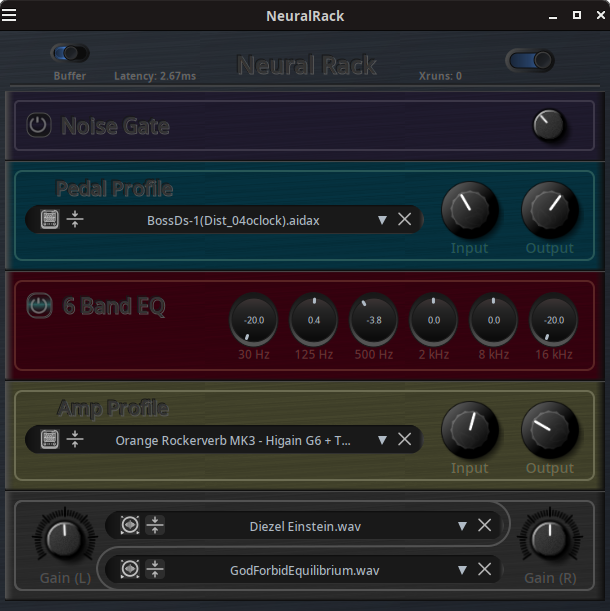
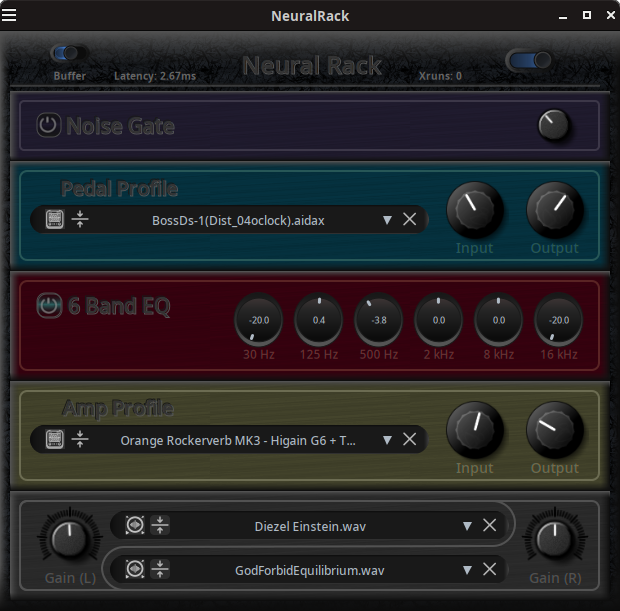
Graphic reworked

diff --git a/NeuralRack/gui/NeuralRack.c b/NeuralRack/gui/NeuralRack.c
@@ -132,7 +132,7 @@ static void file_menu_callback(void *w_, void* user_data) {
 }
 
 void plugin_set_window_size(int *w,int *h,const char * plugin_uri) {
-    (*w) = 610; //set initial width of main window
+    (*w) = 620; //set initial width of main window
     (*h) = 580; //set initial height of main window
 }
 
@@ -143,7 +143,7 @@ const char* plugin_set_name() {
 void plugin_create_controller_widgets(X11_UI *ui, const char * plugin_uri) {
 
     ui->win->label = plugin_set_name();
-    widget_get_png(ui->win, LDVAR(texture_png));
+    widget_get_png(ui->win, LDVAR(texture2_png));
     // connect the expose func
     ui->win->func.expose_callback = draw_window;
     ui->win->func.key_press_callback = set_precision;
@@ -186,7 +186,7 @@ void plugin_create_controller_widgets(X11_UI *ui, const char * plugin_uri) {
     ui->widget[10] = add_lv2_switch (ui->widget[10], ui->win, 14, "", ui, 505,  17, 50, 50);
 
 // noisegate
-    ui->elem[4] = create_widget(&ui->main, ui->win, 5, 60, 600, 70);
+    ui->elem[4] = create_widget(&ui->main, ui->win, 10, 60, 600, 70);
     ui->elem[4]->parent_struct = ui;
     ui->elem[4]->label = "Noise Gate";
     ui->elem[4]->data = 1;
@@ -195,7 +195,7 @@ void plugin_create_controller_widgets(X11_UI *ui, const char * plugin_uri) {
     set_widget_color(ui->elem[4], (Color_state)0, (Color_mod)0, 0.235, 0.215, 0.282,1.0);
     ui->elem[4]->func.expose_callback = draw_eq_window;
 
-    ui->widget[26] = add_eq_button (ui->widget[26], ui->elem[4], 32, "", ui, 20,  20, 30, 30);
+    ui->widget[26] = add_eq_button (ui->widget[26], ui->elem[4], 32, "", ui, 25,  20, 30, 30);
     widget_get_png(ui->widget[26], LDVAR(exit__png));
 
     ui->widget[25] = add_lv2_knob (ui->widget[25], ui->elem[4], 31, "", ui, 510, 5, 70, 70); //Threshold
@@ -206,7 +206,7 @@ void plugin_create_controller_widgets(X11_UI *ui, const char * plugin_uri) {
     set_widget_color(ui->widget[25], (Color_state)1, (Color_mod)0, 0.335, 0.315, 0.382,1.0);
 
 // slot A
-    ui->elem[0] = create_widget(&ui->main, ui->win, 5, 130, 600, 110);
+    ui->elem[0] = create_widget(&ui->main, ui->win, 10, 130, 600, 110);
     ui->elem[0]->parent_struct = ui;
     ui->elem[0]->label = "Pedal Profile";
     ui->elem[0]->data = 1;
@@ -245,7 +245,7 @@ void plugin_create_controller_widgets(X11_UI *ui, const char * plugin_uri) {
     ui->widget[11] = add_lv2_erase_button (ui->widget[11], ui->elem[0], 15, "", ui, 390, 48, 25, 25);
 
 // EQ
-    ui->elem[3] = create_widget(&ui->main, ui->win, 5, 240, 600, 110);
+    ui->elem[3] = create_widget(&ui->main, ui->win, 10, 240, 600, 110);
     ui->elem[3]->parent_struct = ui;
     ui->elem[3]->label = "6 Band EQ";
     set_widget_color(ui->elem[3], (Color_state)0, (Color_mod)1, 0.223, 0.004, 0.059,1.0);
@@ -253,7 +253,7 @@ void plugin_create_controller_widgets(X11_UI *ui, const char * plugin_uri) {
     widget_get_png(ui->elem[3], LDVAR(texture_png));
     ui->elem[3]->func.expose_callback = draw_eq_window;
 
-    ui->widget[24] = add_eq_button (ui->widget[24], ui->elem[3], 30, "", ui, 20,  20, 30, 30);
+    ui->widget[24] = add_eq_button (ui->widget[24], ui->elem[3], 30, "", ui, 25,  20, 30, 30);
     widget_get_png(ui->widget[24], LDVAR(exit__png));
 
     ui->widget[18] = add_eq_knob (ui->widget[18], ui->elem[3], 24, "30 Hz", ui, 220, 10, 60, 80);
@@ -275,7 +275,7 @@ void plugin_create_controller_widgets(X11_UI *ui, const char * plugin_uri) {
     set_adjustment(ui->widget[23]->adj, -20.0, -20.0, -20.0, 20.0, 0.1, CL_CONTINUOS);
 
 // sloat B
-    ui->elem[1] = create_widget(&ui->main, ui->win, 5, 350, 600, 110);
+    ui->elem[1] = create_widget(&ui->main, ui->win, 10, 350, 600, 110);
     ui->elem[1]->parent_struct = ui;
     ui->elem[1]->label = "Amp Profile";
     ui->elem[1]->data = 2;
@@ -312,7 +312,7 @@ void plugin_create_controller_widgets(X11_UI *ui, const char * plugin_uri) {
     ui->widget[12] = add_lv2_erase_button (ui->widget[12], ui->elem[1], 16, "", ui, 390, 48, 25, 25);
 
 // IR
-    ui->elem[2] = create_widget(&ui->main, ui->win, 5, 460, 600, 110);
+    ui->elem[2] = create_widget(&ui->main, ui->win, 10, 460, 600, 110);
     ui->elem[2]->parent_struct = ui;
     ui->elem[2]->label = "Amp Profiler";
     widget_get_png(ui->elem[2], LDVAR(texture_png));

diff --git a/NeuralRack/gui/widgets.cc b/NeuralRack/gui/widgets.cc
@@ -57,9 +57,9 @@ void boxShadowOutset(cairo_t* const cr, int x, int y, int width, int height, boo
     cairo_pattern_add_color_stop_rgba
         (pat, 0,0.33,0.33,0.33, 1.0);
     cairo_pattern_add_color_stop_rgba
-        (pat, 0.03,0.33 * 0.6,0.33 * 0.6,0.33 * 0.6, 0.0);
+        (pat, 0.07,0.33 * 0.6,0.33 * 0.6,0.33 * 0.6, 0.0);
     cairo_pattern_add_color_stop_rgba
-        (pat, 0.97, 0.05 * 2.0, 0.05 * 2.0, 0.05 * 2.0, 0.0);
+        (pat, 0.93, 0.05 * 2.0, 0.05 * 2.0, 0.05 * 2.0, 0.0);
     cairo_pattern_add_color_stop_rgba
         (pat, 1, 0.05, 0.05, 0.05, 1.0);
     cairo_set_source(cr, pat);
@@ -89,6 +89,16 @@ void round_rectangle(cairo_t *cr,float x, float y, float width, float height, fl
     cairo_arc(cr, x+width-1-r, y+r, r, 3*M_PI/2, 0);
     cairo_arc(cr, x+width-1-r, y+height-1-r, r, 0, M_PI/2);
     cairo_arc(cr, x+r, y+height-1-r, r, M_PI/2, M_PI);
+    cairo_close_path(cr);
+}
+
+void inv_round_rectangle(cairo_t *cr,float x, float y, float width, float height, float round) {
+    float r = 90.0* round;
+    cairo_new_path (cr);
+    cairo_arc_negative(cr, x+r, y+r, r, M_PI, 3*M_PI/2);
+    cairo_arc_negative(cr, x+width-1-r, y+r, r, 3*M_PI/2, 0);
+    cairo_arc_negative(cr, x+width-1-r, y+height-1-r, r, 0, M_PI/2);
+    cairo_arc_negative(cr, x+r, y+height-1-r, r, M_PI/2, M_PI);
     cairo_close_path(cr);
 }
 
@@ -360,6 +370,9 @@ static void draw_window(void *w_, void* user_data) {
     cairo_pattern_set_extend (pat, CAIRO_EXTEND_REPEAT);
     cairo_set_source(w->crb, pat);
     cairo_paint (w->crb);
+    boxShadowOutset(w->crb,0,0,
+        w->width * w->app->hdpi,w->height * w->app->hdpi, false);
+    //cairo_stroke (w->crb);
 
 #ifndef HIDE_NAME
     widget_set_scale(w);
